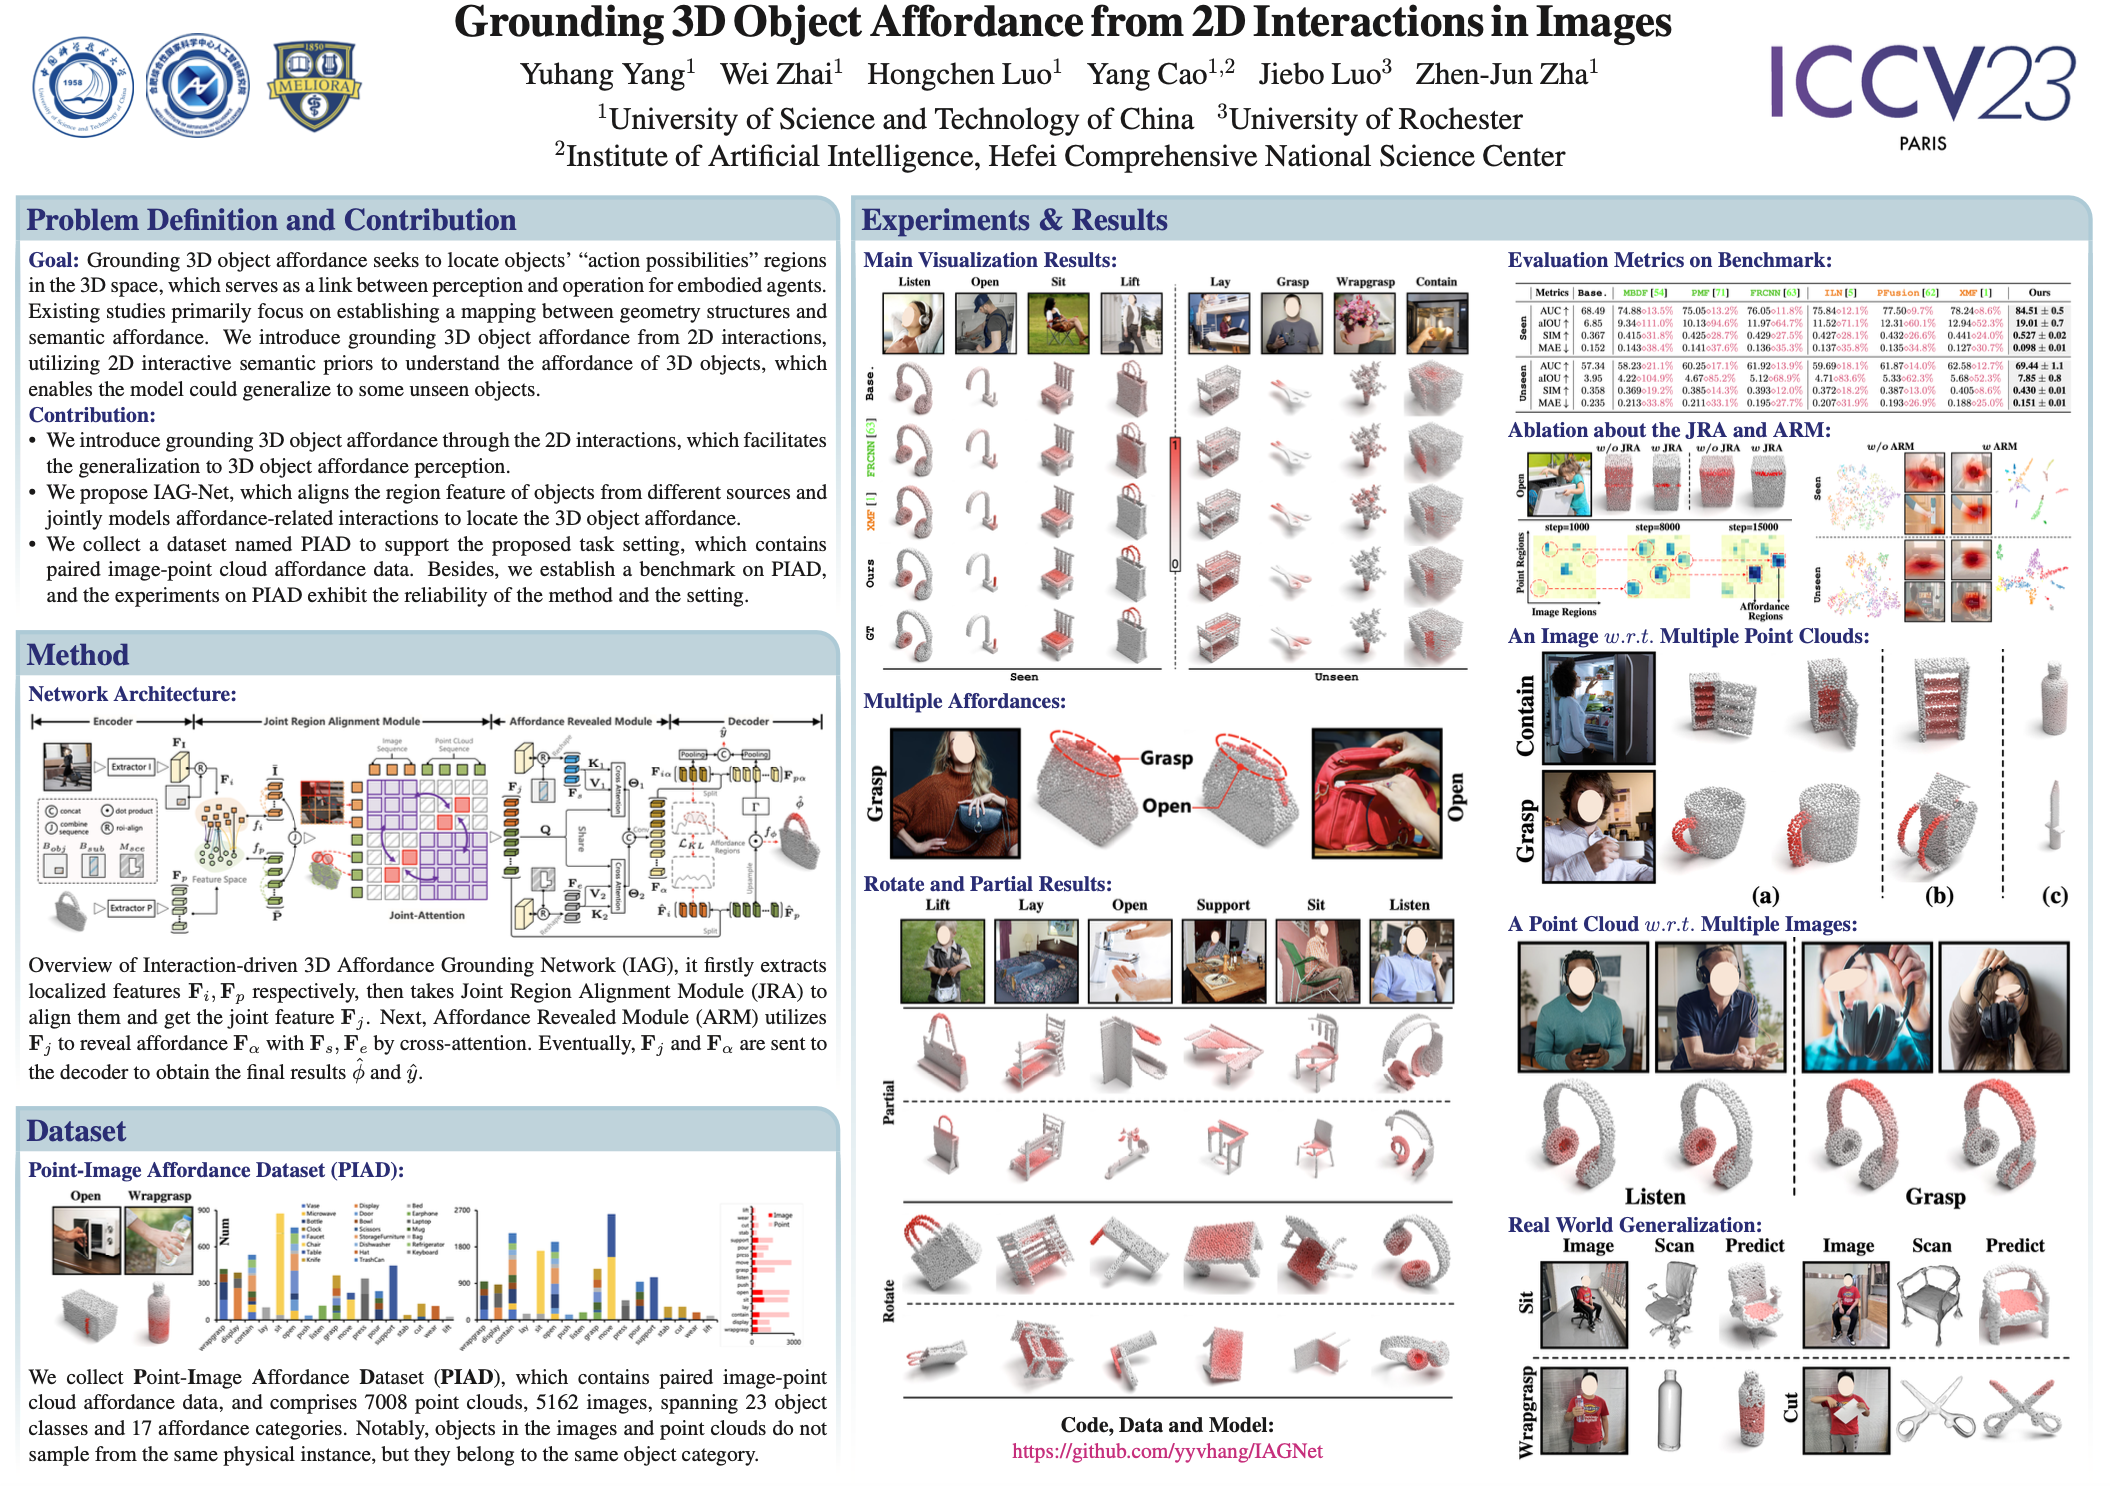
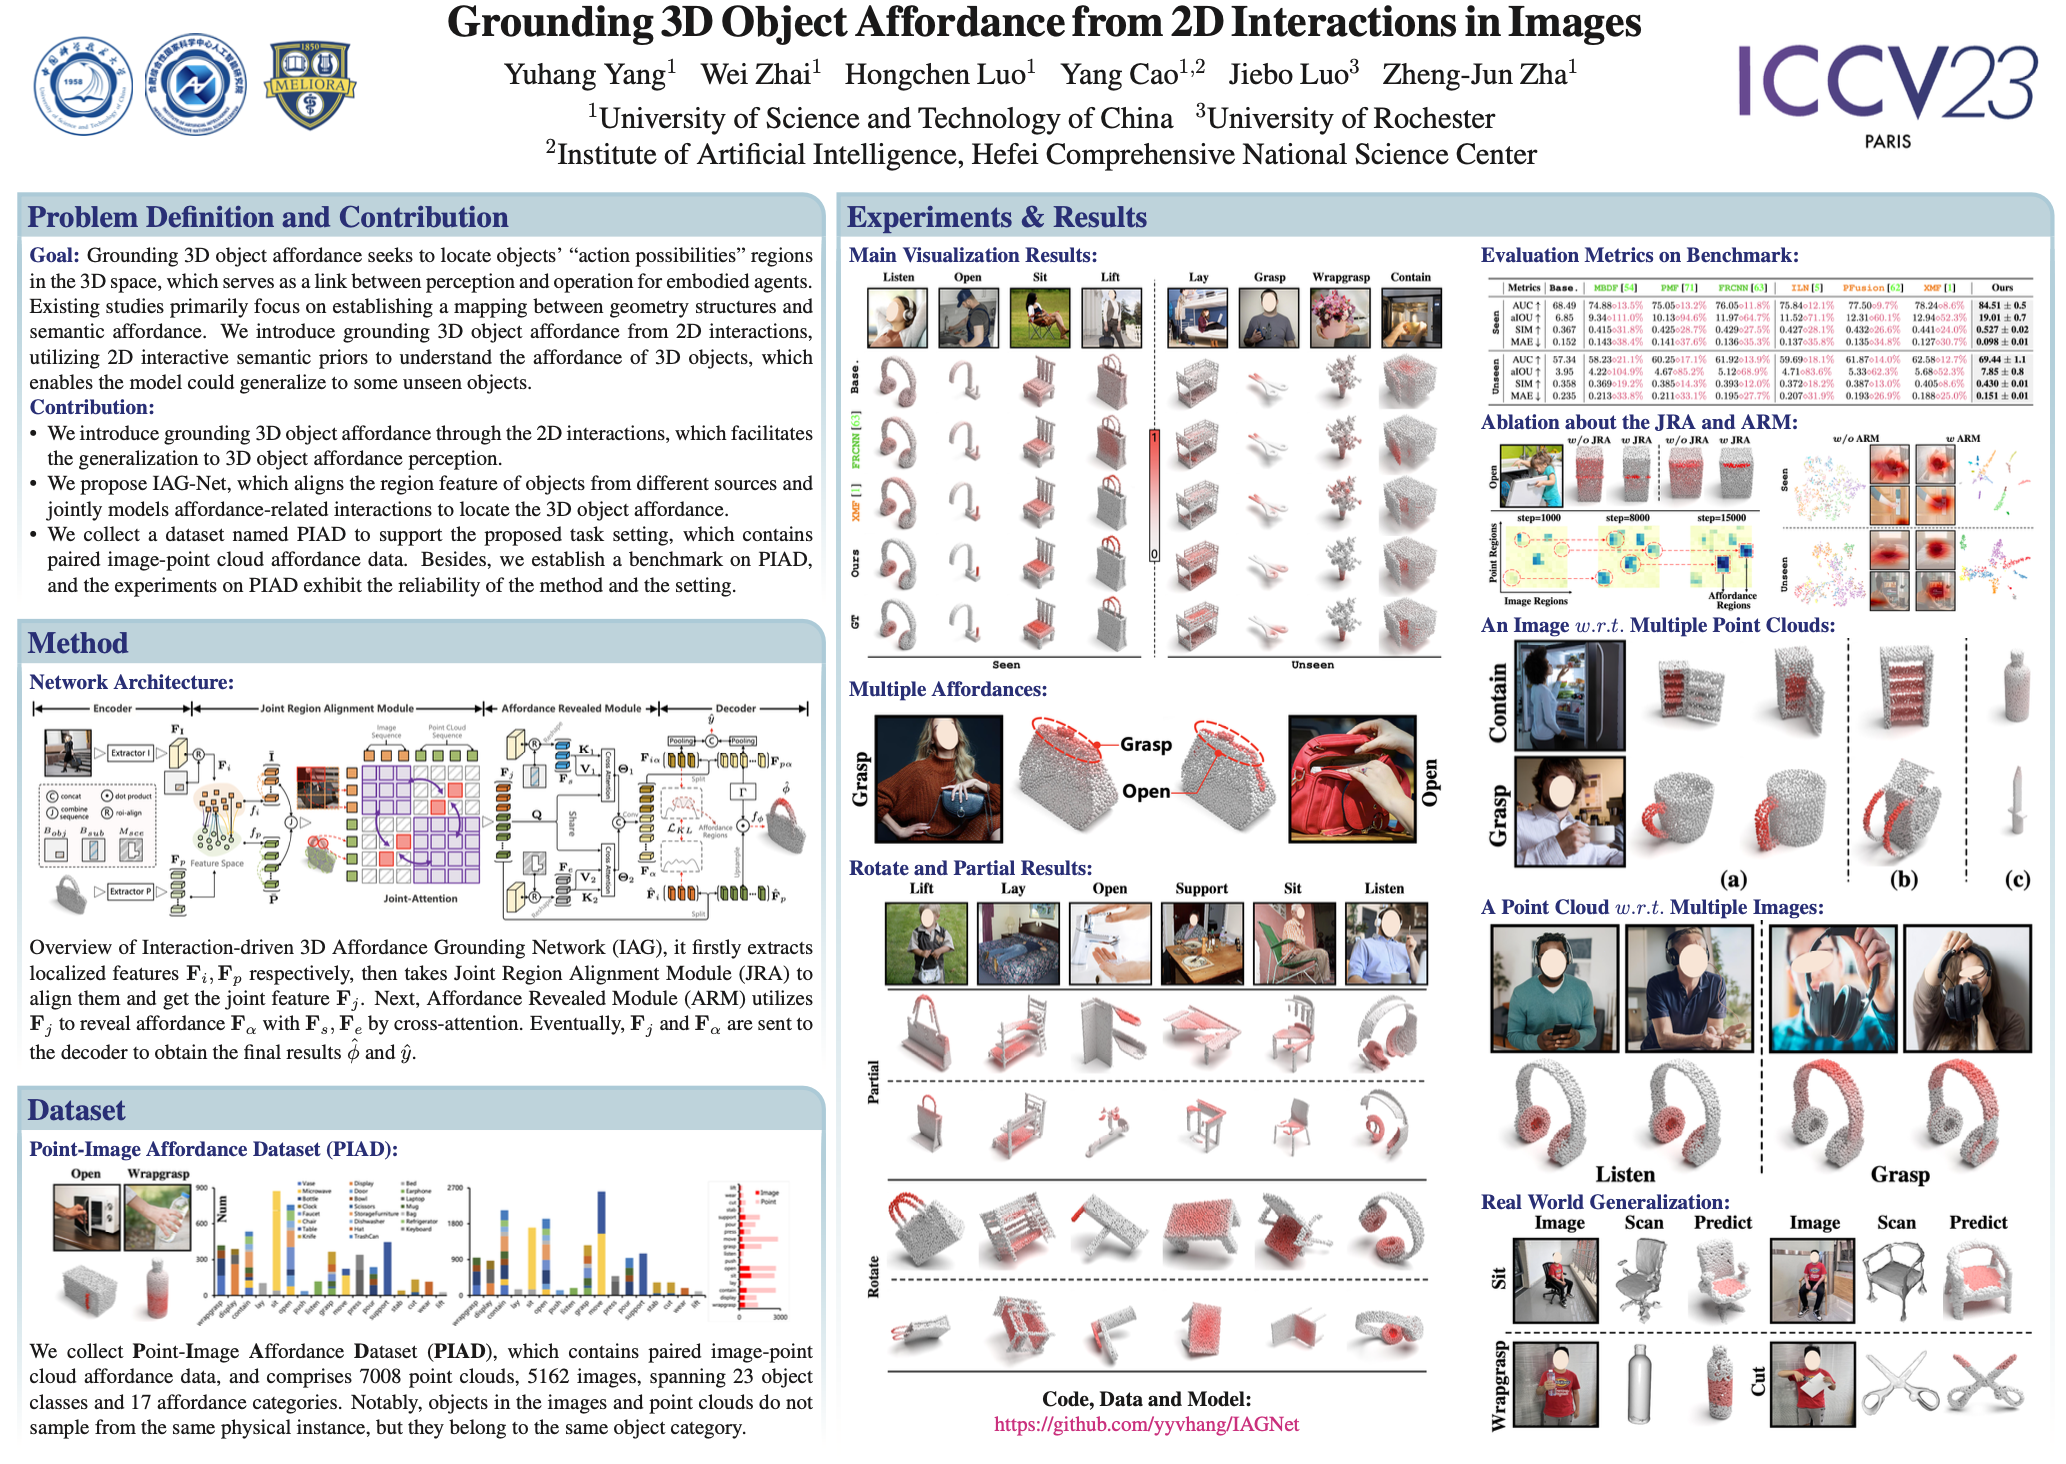
update

Changed region(s): [[0.0, 0.0, 1.0, 0.9836], [0.0, 0.0307, 0.1859, 0.0922], [0.8364, 0.0307, 0.9913, 0.123]]

diff --git a/publications.md b/publications.md
@@ -10,7 +10,7 @@ Lastest Update: 19 July 2023
 
 ## Conference Paper
 
-- Grounding 3D Object Affordance from 2D Interactions in Images <font color='red'>(ICCV-2023)</font>. [Project](https://yyvhang.github.io/publications/IAG/index.html), [Paper](https://arxiv.org/abs/2303.10437), [Code](https://github.com/yyvhang/IAGNet)<br>**Yuhang Yang**, Wei Zhai, Hongchen Luo, Yang Cao, Jiebo Luo, Zhen-Jun Zha.<br>
+- Grounding 3D Object Affordance from 2D Interactions in Images <font color='red'>(ICCV-2023)</font>. [Project](https://yyvhang.github.io/publications/IAG/index.html), [Paper](https://arxiv.org/abs/2303.10437), [Code](https://github.com/yyvhang/IAGNet)<br>**Yuhang Yang**, Wei Zhai, Hongchen Luo, Yang Cao, Jiebo Luo, Zheng-Jun Zha.<br>
 <center>
 <img src="https://yyvhang.github.io/images/IAG_poster.png">
 </center>
